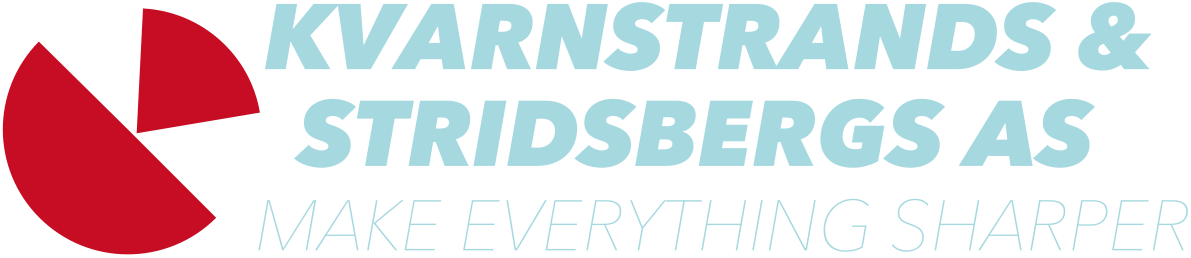
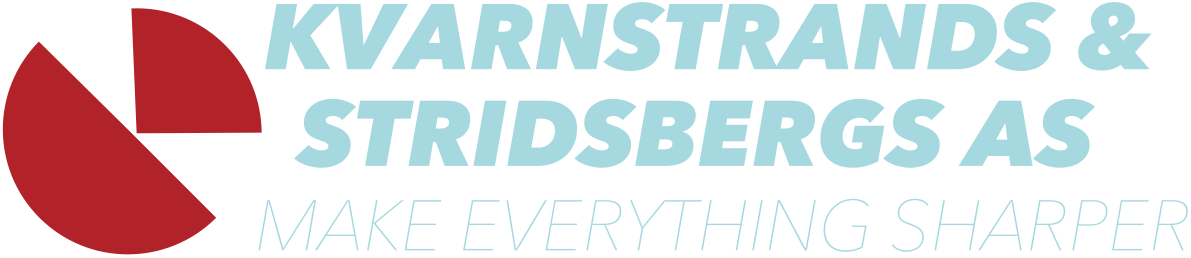
new color

Changed region(s): [[0.0932, 0.031, 0.1243, 0.4031], [0.1243, 0.4341, 0.2175, 0.5271]]

diff --git a/components/SlipeserviceComponent.jsx b/components/SlipeserviceComponent.jsx
@@ -1,7 +1,8 @@
 import React from 'react';
 import { Container, makeStyles, Typography, Grid, useMediaQuery, useTheme } from '@material-ui/core';
 
-import handShake from '../images/handshake.png';
+import handShake from '../images/handshakeGreenTheme.png';
+import kvarnstrandsLogo from '../images/kvarnstrandsLogoGreenTheme.png'
 const useStyles = makeStyles((theme) => ({
   pageheaderContainer: {
     padding: '7rem 5rem',
@@ -52,10 +53,13 @@ const useStyles = makeStyles((theme) => ({
     },
   },
   headerFirstSectionService: {
-    fontSize: '2rem',
+    fontSize: '3rem',
     color: theme.palette.secondary.main,
     fontWeight: 'bold',
     margin: '3rem 6rem',
+    [theme.breakpoints.down('lg')]: {
+      fontSize: '2rem'
+    },
     [theme.breakpoints.down('sm')]: {
       marginLeft: '2rem',
     },
@@ -107,7 +111,10 @@ const useStyles = makeStyles((theme) => ({
   text: {
     paddingLeft: '8rem',
     color: theme.palette.secondary.main,
-    fontSize: '1.2rem',
+    fontSize: '1.6rem',
+    [theme.breakpoints.down('lg')]: {
+      fontSize: '1.2rem'
+    },
     [theme.breakpoints.down('sm')]: {
       paddingLeft: '2rem',
     },
@@ -116,9 +123,12 @@ const useStyles = makeStyles((theme) => ({
     paddingLeft: '8rem',
     paddingRight: '8rem',
     color: theme.palette.secondary.main,
-    fontSize: '1.1rem',
+    fontSize: '1.5rem',
     marginBottom: '2rem',
 
+    [theme.breakpoints.down('lg')]: {
+      fontSize: '1.1rem'
+    },
     [theme.breakpoints.down('sm')]: {
       paddingLeft: '2rem',
       marginBottom: '3rem'
@@ -127,7 +137,10 @@ const useStyles = makeStyles((theme) => ({
   list: {
     color: theme.palette.secondary.main,
     marginLeft: '8rem',
-    fontSize: '1rem',
+    fontSize: '1.3rem',
+    [theme.breakpoints.down('lg')]: {
+     fontSize: '1rem'
+    },
     [theme.breakpoints.down('sm')]: {
       marginLeft: '1rem',
       marginBottom: '2.5rem'
@@ -135,12 +148,34 @@ const useStyles = makeStyles((theme) => ({
   },
   header2knives: {
     color: theme.palette.secondary.main,
-    fontSize: '1.3rem',
+    fontSize: '1.8rem',
     paddingBottom: '2rem',
     marginLeft: '8rem',
     fontWeight: 600,
+    [theme.breakpoints.down('lg')]: {
+     fontSize: '1.3rem'
+    },
     [theme.breakpoints.down('sm')]: {
       marginLeft: '2rem'
+    }
+  },
+  logo: {
+    height: '4rem',
+    marginLeft: '8rem',
+  
+    [theme.breakpoints.down('md')]: {
+      marginLeft: '7rem',
+      marginBottom: '2rem',
+      height: '3rem'
+    },
+    [theme.breakpoints.down('sm')]: {
+      marginLeft: '2rem',
+      marginBottom: '2rem'
+    },
+    [theme.breakpoints.down('xs')]: {
+      marginLeft: '2rem',
+      marginBottom: '2rem',
+      height: '3rem'
     }
   }
 }));
@@ -151,7 +186,7 @@ const useStyles = makeStyles((theme) => ({
 const SlipeserviceComponent = (props) => {
   const classes = useStyles();
   const themes = useTheme()
-  const matches = useMediaQuery(themes.breakpoints.down('sm'));
+  const matches = useMediaQuery(themes.breakpoints.down('md'));
 
 const computer = (
 <>
@@ -219,7 +254,7 @@ const computer = (
           <ul className={classes.list}>
             <li>Tilpasser</li>
             <li>Problemløsere</li>
-            <li>Kompetnse</li>
+            <li>Kompetanse</li>
             <li>Finish</li>
             <li>Standtid</li>
             <li>Klyvsagblader</li>
@@ -312,6 +347,10 @@ const computer = (
           <Typography className={classes.text2}>
           v/Morten Flatset, mob 951 30 191
           </Typography>
+          <Typography className={classes.text2}>
+          www.kvarnstrands.no
+          </Typography>
+          <img className={classes.logo} src={kvarnstrandsLogo} alt=""/>
         </Grid>
       </Grid>
     </Grid>
@@ -404,7 +443,7 @@ const cellphone = (
       </div>
   <div className={classes.mainContainer}>
   <Grid container>
-    <Grid xs={12} sm={12} md={6} item>
+    <Grid xs={12} sm={12} md={12} item>
       <img
         className={classes.img}
         src="https://images.unsplash.com/photo-1455165814004-1126a7199f9b?ixlib=rb-1.2.1&ixid=eyJhcHBfaWQiOjEyMDd9&auto=format&fit=crop&w=1350&q=80"
@@ -426,7 +465,7 @@ const cellphone = (
           <ul className={classes.list}>
             <li>Tilpasser</li>
             <li>Problemløsere</li>
-            <li>Kompetnse</li>
+            <li>Kompetanse</li>
             <li>Finish</li>
             <li>Standtid</li>
             <li>Klyvsagblader</li>
@@ -439,7 +478,7 @@ const cellphone = (
 
   <Grid container>
 
-  <Grid xs={12} sm={12} md={6} item>
+  <Grid xs={12} sm={12} md={12} item>
       <img
         className={classes.img}
         src="https://images.unsplash.com/photo-1473621038790-b778b4750efe?ixlib=rb-1.2.1&ixid=eyJhcHBfaWQiOjEyMDd9&auto=format&fit=crop&w=1952&q=80"
@@ -473,7 +512,7 @@ const cellphone = (
   </Grid>
 
   <Grid container>
-    <Grid xs={12} sm={12} md={6} item>
+    <Grid xs={12} sm={12} md={12} item>
       <img
         className={classes.img}
         src="https://images.unsplash.com/photo-1553051021-9f94520a6cad?ixlib=rb-1.2.1&ixid=eyJhcHBfaWQiOjEyMDd9&auto=format&fit=crop&w=1350&q=80"
@@ -504,7 +543,7 @@ const cellphone = (
   </Grid>
 
   <Grid container>
-  <Grid xs={12} sm={12} md={6} item>
+  <Grid xs={12} sm={12} md={12} item>
       <img
         className={classes.img}
         src="https://images.unsplash.com/photo-1465113959084-ffb1c2c55a1a?ixlib=rb-1.2.1&auto=format&fit=crop&w=1273&q=80"
@@ -529,6 +568,10 @@ const cellphone = (
           <Typography className={classes.text2}>
           v/Morten Flatset, mob 951 30 191
           </Typography>
+          <Typography className={classes.text2}>
+          www.kvarnstrands.no
+          </Typography>
+          <img className={classes.logo} src={kvarnstrandsLogo} alt=""/>
         </Grid>
       </Grid>
     </Grid>
@@ -536,7 +579,7 @@ const cellphone = (
   </Grid>
 
   <Grid container>
-    <Grid xs={12} sm={12} md={6} item>
+    <Grid xs={12} sm={12} md={12} item>
       <img
         className={classes.img}
         src="https://admin.mekke.no/thumbnail.php?img=/data/images/2575/IMG_20170706_050142_edited.jpg&h=1201&w=2761"

diff --git a/src/theme.js b/src/theme.js
@@ -1,24 +1,33 @@
 import { createMuiTheme } from '@material-ui/core/styles';
 import { red } from '@material-ui/core/colors';
 
+//BlueTheme
+const blueThemePrimary = '#303c6c'
+const blueThemeSecondary = '#b4dfe5'
+//Black Theme
+const blackThemePrimary = '#000'
+const blackThemeSecondary = '#fff'
+//Gray Theme
+const greenThemePrimary = '#2c3531'
+const greenThemeSecondary = '#d9b08c'
 // Create a theme instance.
 const theme = createMuiTheme({
   palette: {
     primary: {
-      main: '#303c6c'
+      main: greenThemePrimary
     },
     secondary: {
-      main: '#b4dfe5'
+      main: greenThemeSecondary
     },
     error: {
       main: red.A400
     },
     background: {
-      default: '#303c6c'
+      default: greenThemePrimary
     },
 
     myColor: {
-      cl: '#303c6c'
+      cl: greenThemePrimary
     },
     customWhite: {
       white: '#f4efe8'
@@ -26,7 +35,7 @@ const theme = createMuiTheme({
   },
   typography: {
     tab: {
-      color: '#b4dfe5',
+      color: greenThemeSecondary,
       fontSize: '1rem',
       marginLeft: '25px',
       fontweight: 600

diff --git a/components/Footer.jsx b/components/Footer.jsx
@@ -1,10 +1,10 @@
 import React from 'react';
 import { makeStyles, Grid } from '@material-ui/core';
-import { blue } from '@material-ui/core/colors';
+
 import HomeIcon from '@material-ui/icons/Home';
 import PhoneInTalkIcon from '@material-ui/icons/PhoneInTalk';
 import MailIcon from '@material-ui/icons/Mail';
-import logoImage from '../images/Stridsbergs2.png';
+import logoImage from '../images/Stridsbergs2GreenTheme.png';
 
 const useStyles = makeStyles(theme => ({
   footer: {

diff --git a/components/Header.jsx b/components/Header.jsx
@@ -20,7 +20,7 @@ import {
 import MenuIcon from '@material-ui/icons/Menu';
 import Link from 'next/link';
 import { useEffect } from 'react';
-import logoImage from '../images/Stridsbergs.png';
+import logoImage from '../images/StridsbergsGreenTheme.png';
 
 const useStyles = makeStyles(theme => ({
   toolbarMargin: {
